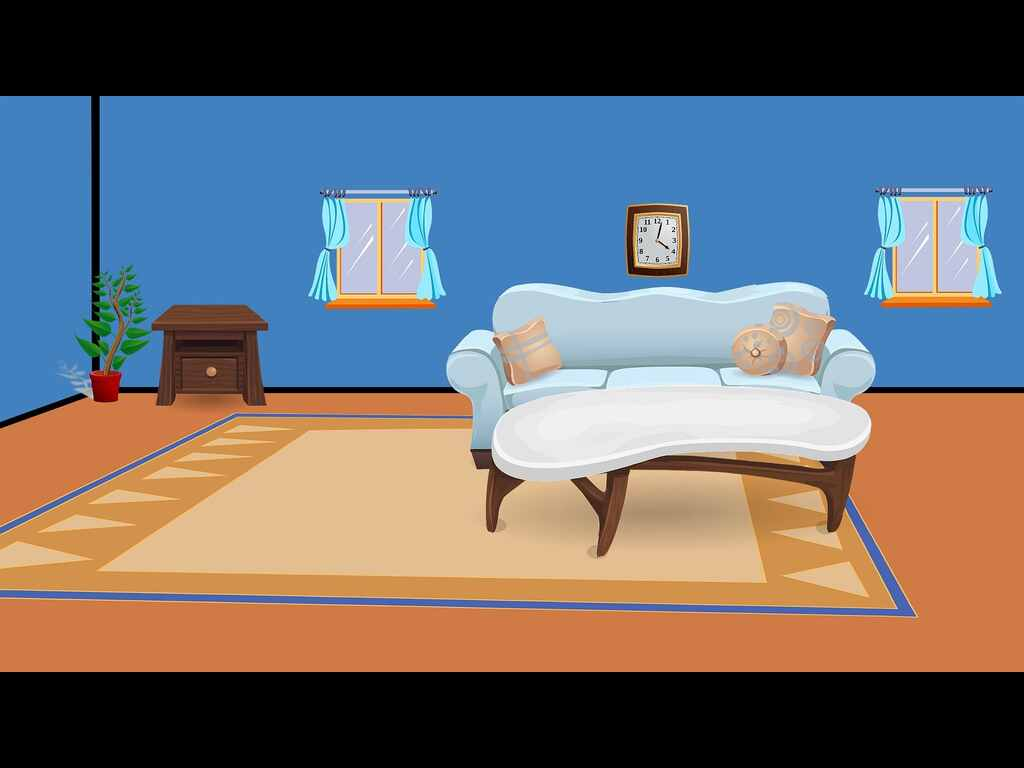
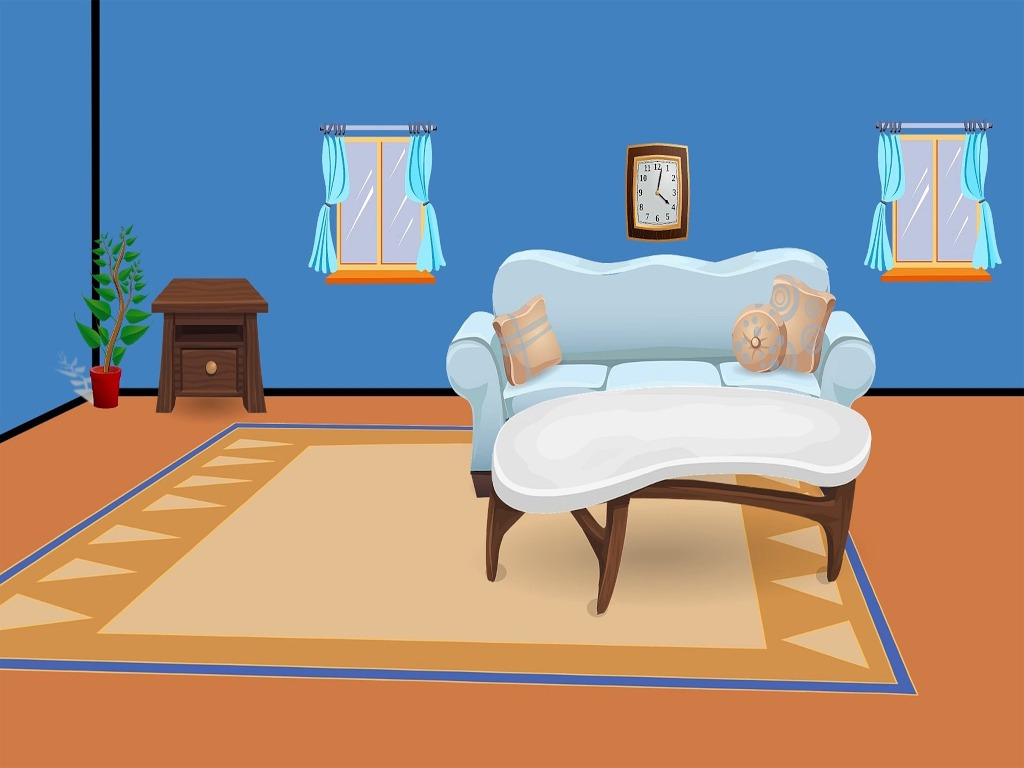
Wprowadzanie imienia
Dodano wprowadzenie imienia, działające tło, zmieniono tło na takie bez czarnych pasków oraz jest JLabel na imie

diff --git a/src/Main/UI.java b/src/Main/UI.java
@@ -26,6 +26,7 @@ public class UI {
         okno.setDefaultCloseOperation(JFrame.EXIT_ON_CLOSE);
         okno.getContentPane().setBackground(Color.black);
         okno.setLayout(null);
+        okno.setResizable(false);
         okno.setTitle("PuppyVille: Psia Ferajna");
         okno.setLocationRelativeTo(null);
     }
@@ -48,7 +49,6 @@ public class UI {
                     JOptionPane.showMessageDialog(null, "Imię nie może być puste. Wprowadź imię.");
                 }
             } else {
-                //return null;
                 JOptionPane.showMessageDialog(null, "Musisz wprowadzić imie!");
             }
         }
@@ -66,15 +66,7 @@ public class UI {
 
         label_tlo[0] = new JLabel();
         label_tlo[0].setBounds(0,0,1024,768);
-<<<<<<< Updated upstream
 
-        ImageIcon salon_zdj = new ImageIcon(Objects.requireNonNull(getClass().getClassLoader().getResource("salon.jpg")));
-        label_tlo[0].setIcon(salon_zdj);
-        panel_tlo[0].add(label_tlo[0]);
-
-
-
-=======
         ImageIcon salon_zdj = new ImageIcon(Objects.requireNonNull(getClass().getClassLoader().getResource("salon.jpg")));
         label_tlo[0].setIcon(salon_zdj);
         panel_tlo[0].add(label_tlo[0]);
@@ -92,6 +84,5 @@ public class UI {
 
         label_tlo[0].add(panel_tlo[1]);
         label_tlo[0].repaint();
->>>>>>> Stashed changes
     }
 }
